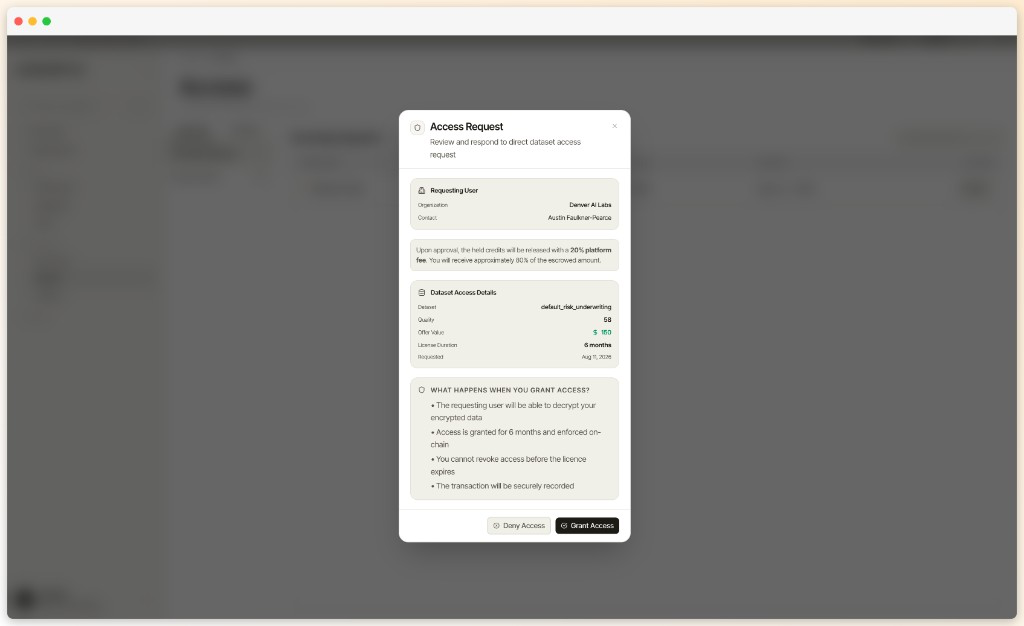
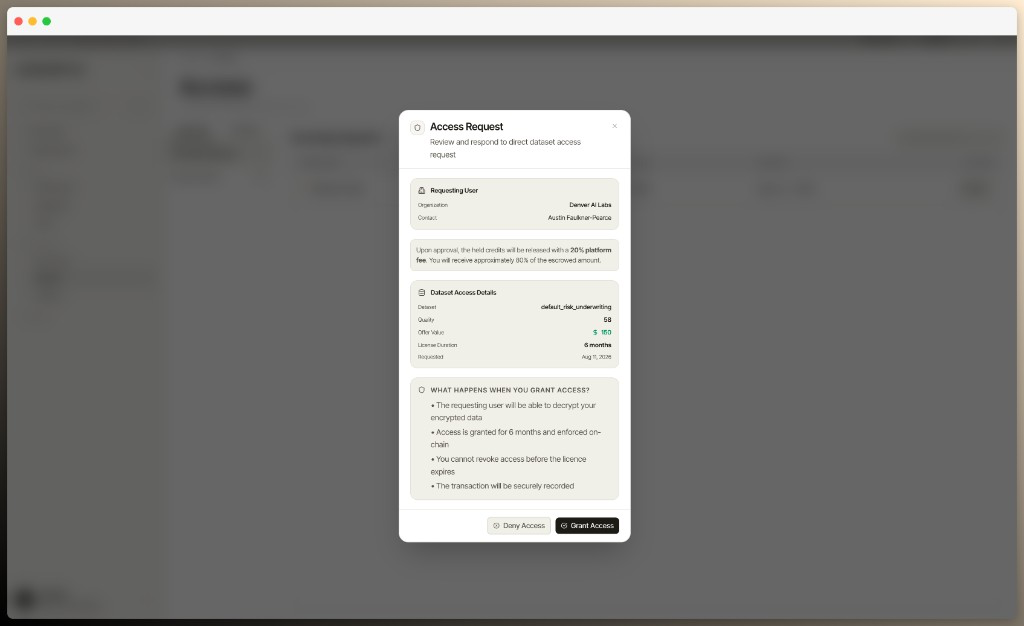
Home: tighten How steps and refresh Access Request still.
Cut defensive step asides, make Term match the other titles, and document live step copy.

Changed region(s): [[0.0, 0.0, 1.0, 1.0]]

diff --git a/src/pages/LandingPage.jsx b/src/pages/LandingPage.jsx
@@ -39,7 +39,7 @@ const PATH_STEPS = [
     id: 'choose',
     chip: 'Choose',
     title: 'Start with your live database',
-    body: 'Pick a coherent dataset: tables, joins, and fields from what is already running. Not the whole database.',
+    body: 'Pick a coherent dataset: tables, joins, and fields from what is already running.',
     productLabel: 'Step · Choose',
     lightSrc: '/product/workspace-slice-light.png',
     darkSrc: '/product/workspace-slice-dark.png',
@@ -49,7 +49,7 @@ const PATH_STEPS = [
     id: 'lock',
     chip: 'Lock',
     title: 'Lock that as a dataset',
-    body: 'The database stays where it is. You lock a working set from what you already run, not an upload of the whole thing.',
+    body: 'The database stays where it is. You lock a working set from what you already run.',
     productLabel: 'Step · Lock',
     lightSrc: '/product/vault-light.png',
     darkSrc: '/product/vault-dark.png',
@@ -59,7 +59,7 @@ const PATH_STEPS = [
     id: 'check',
     chip: 'Check',
     title: 'Verify the dataset is useful',
-    body: 'The check says whether that dataset has utility: structure, completeness, distinctiveness, balance. It is not the sale.',
+    body: 'The check says whether that dataset has utility: structure, completeness, distinctiveness, balance.',
     productLabel: 'Step · Check',
     lightSrc: '/product/appraisal-light.png',
     darkSrc: '/product/appraisal-dark.png',
@@ -68,12 +68,12 @@ const PATH_STEPS = [
   {
     id: 'term',
     chip: 'Term',
-    title: 'Keep the verified dataset on your side',
-    body: 'You get a real dataset from what you already run, plus a clear answer about quality. When you open access, you set the time.',
+    title: 'Set the terms',
+    body: 'Open access for a time you choose. You get paid. Access ends when that time ends.',
     productLabel: 'Step · Term',
     lightSrc: '/product/access-light.png',
     darkSrc: '/product/access-dark.png',
-    alt: 'Aseryx: verified dataset stays under owner control',
+    alt: 'Aseryx: set terms, open timed access, and get paid',
   },
 ];
 

diff --git a/docs/messaging/home-plain-copy-draft.md b/docs/messaging/home-plain-copy-draft.md
@@ -34,19 +34,19 @@ Pick what is in · See where the data sits · Access ends on time
 
 **01 Choose**  
 Start with your live database.  
-Pick a coherent dataset: tables, joins, and fields from what is already running. Not the whole database.
+Pick a coherent dataset: tables, joins, and fields from what is already running.
 
 **02 Lock**  
 Lock that as a dataset.  
-The database stays where it is. You lock a working set from what you already run, not an upload of the whole thing.
+The database stays where it is. You lock a working set from what you already run.
 
 **03 Check**  
 Verify the dataset is useful.  
-The check says whether that dataset has utility: structure, completeness, distinctiveness, balance. It is not the sale.
+The check says whether that dataset has utility: structure, completeness, distinctiveness, balance.
 
 **04 Term**  
-Keep the verified dataset on your side.  
-You get a real dataset from what you already run, plus a clear answer about quality. When you open access, you set the time.
+Set the terms.  
+Open access for a time you choose. You get paid. Access ends when that time ends.
 
 ---
 

diff --git a/docs/messaging/how-steps-live.md b/docs/messaging/how-steps-live.md
@@ -1,0 +1,42 @@
+# How it works — live step copy
+
+**Source:** `LandingPage.jsx` PATH_STEPS + How claim  
+**Branch:** `website/plain-product-copy`
+
+---
+
+## Claim
+
+Scan for tables and fields that belong together. Lock them as a dataset and check if they are useful. The database stays where it is. When you are ready, you give access for a time you set.
+
+---
+
+## 01 · Choose
+
+**Title:** Start with your live database  
+
+**Body:** Pick a coherent dataset: tables, joins, and fields from what is already running.
+
+---
+
+## 02 · Lock
+
+**Title:** Lock that as a dataset  
+
+**Body:** The database stays where it is. You lock a working set from what you already run.
+
+---
+
+## 03 · Check
+
+**Title:** Verify the dataset is useful  
+
+**Body:** The check says whether that dataset has utility: structure, completeness, distinctiveness, balance.
+
+---
+
+## 04 · Term
+
+**Title:** Set the terms  
+
+**Body:** Open access for a time you choose. You get paid. Access ends when that time ends.
